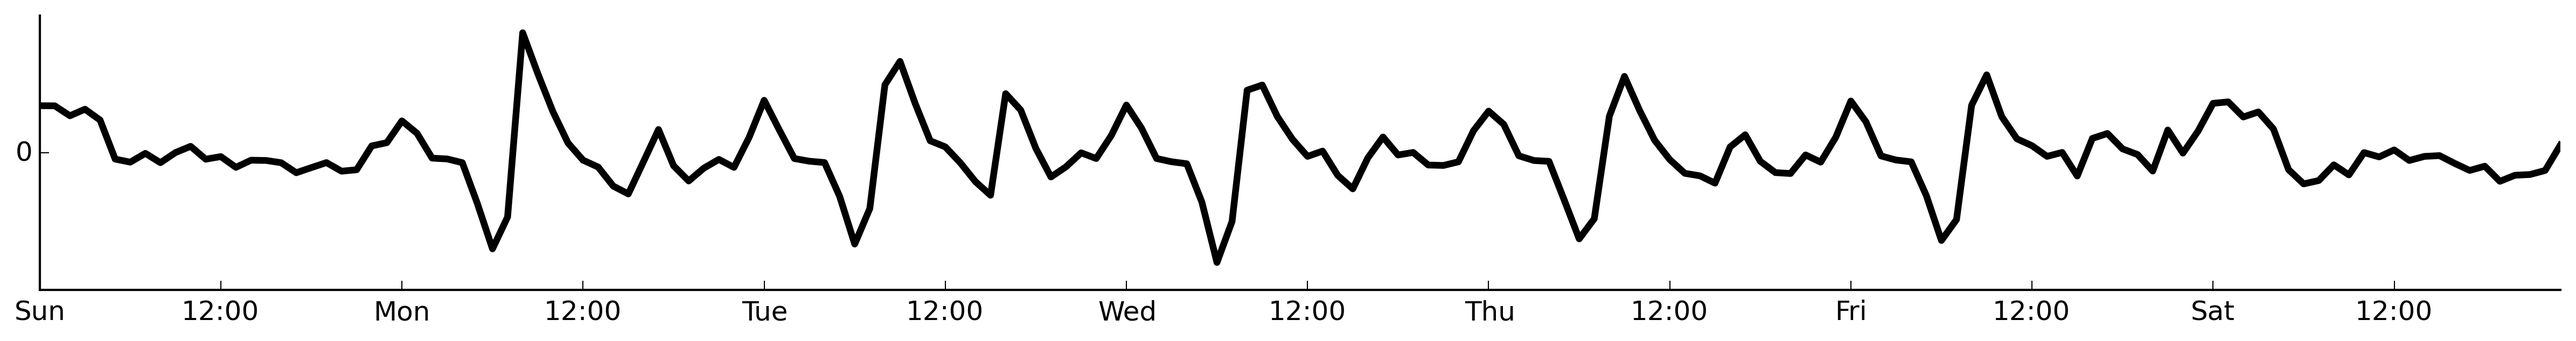
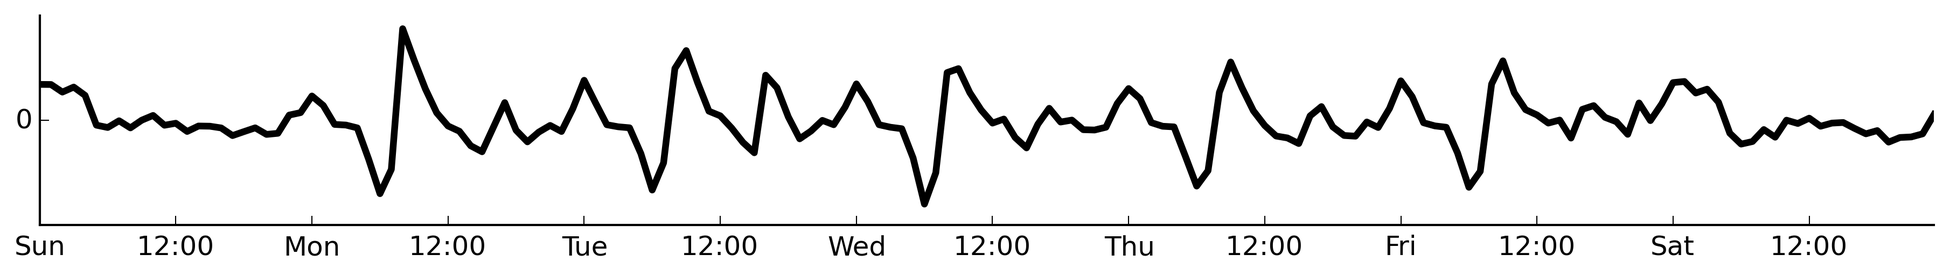
Resize font in PNG timeseries plots

diff --git a/src/pca.py b/src/pca.py
@@ -204,7 +204,7 @@ def save_plot_ts(X, base_filename):
     else:
         N = len(X.columns)
 
-    fig = plt.figure(figsize=(20, 2))
+    fig = plt.figure(figsize=(15, 1.5))
     for i in range(N):
         fig.clf()
         plt.plot(X[i], 'k-', linewidth=3)
